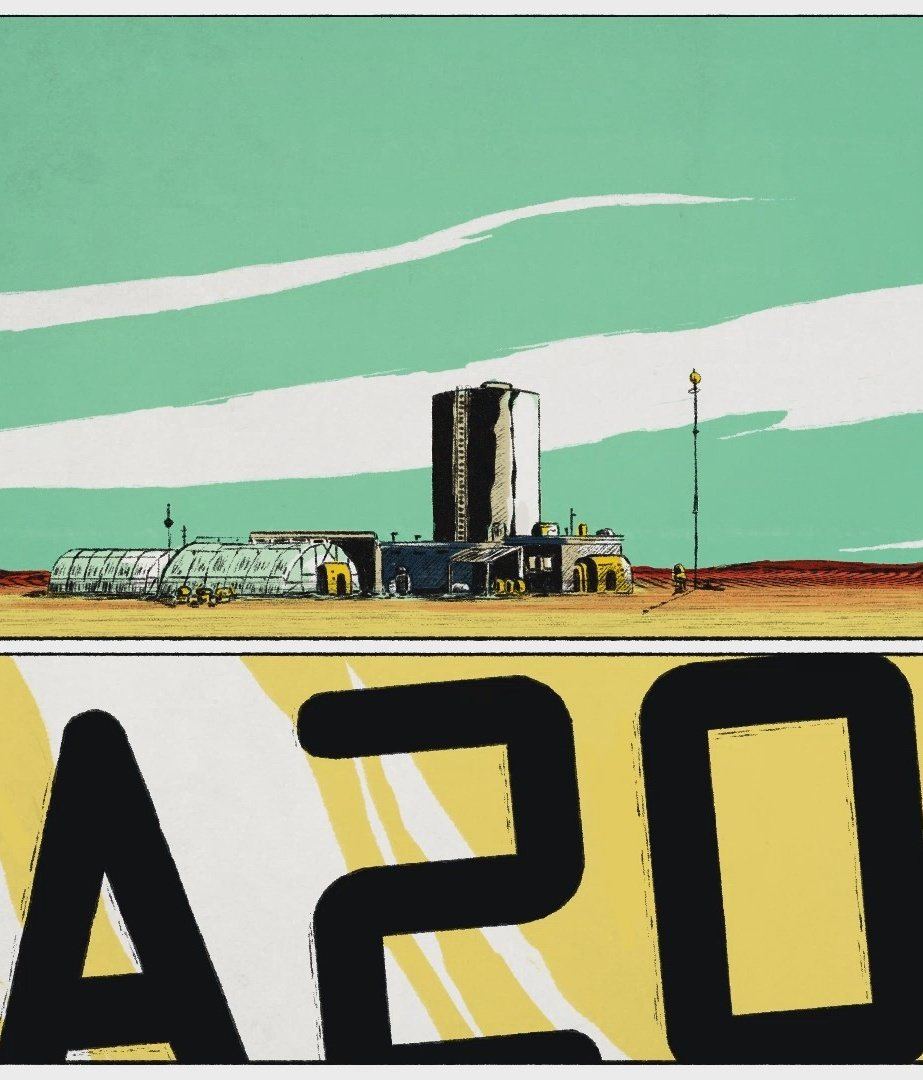
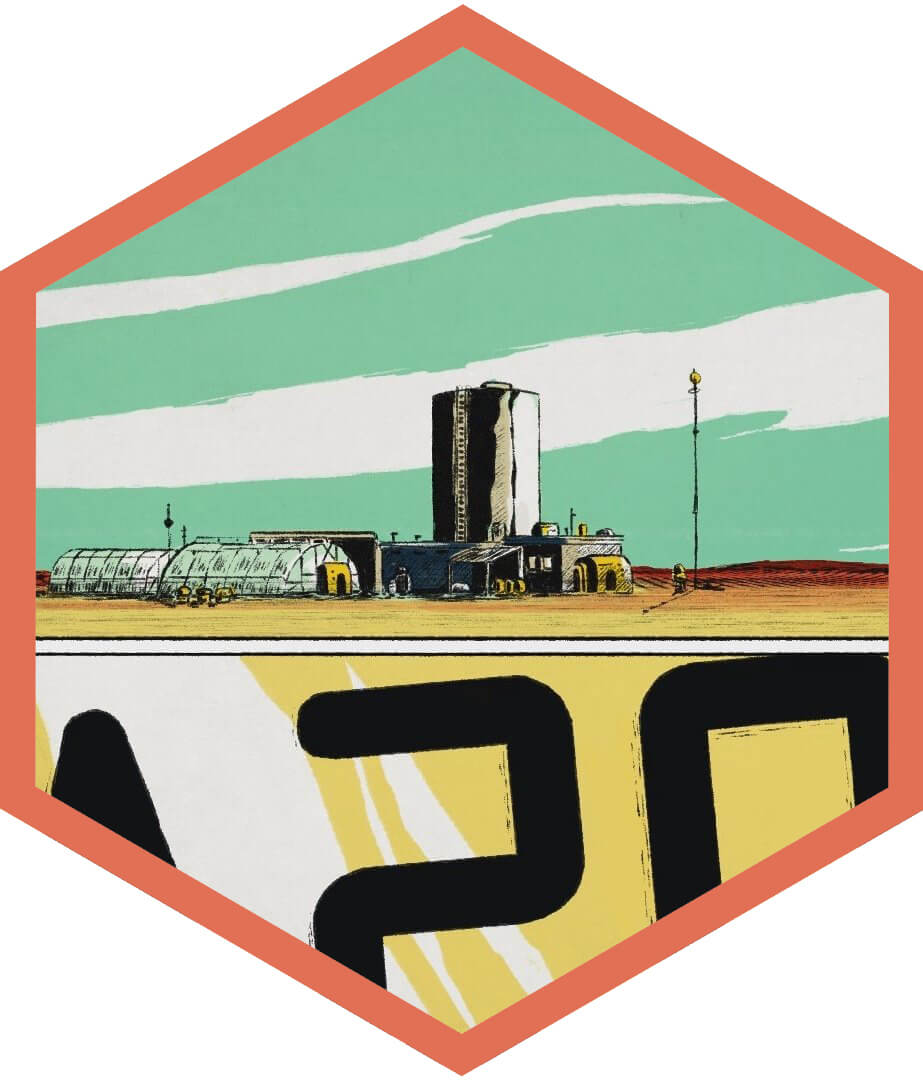
new previews+img optimization

diff --git a/src/app/home/home.component.html b/src/app/home/home.component.html
@@ -39,7 +39,7 @@
     </div>
  </div>
   <div class="skills">
-    <h2 class="side-title">front-end</h2>
+    <h2 class="side-title">compétences front-end</h2>
     <div class="front-end">
       <div>
         <span>HTML5</span>
@@ -84,7 +84,7 @@
         <span class="ux"></span>
       </div>
     </div>
-    <h2 class="side-title">back-end</h2>
+    <h2 class="side-title">compétences back-end</h2>
     <div class="back-end">
       <div>
         <span (click)="reveal('php')" class="link">PHP</span>
